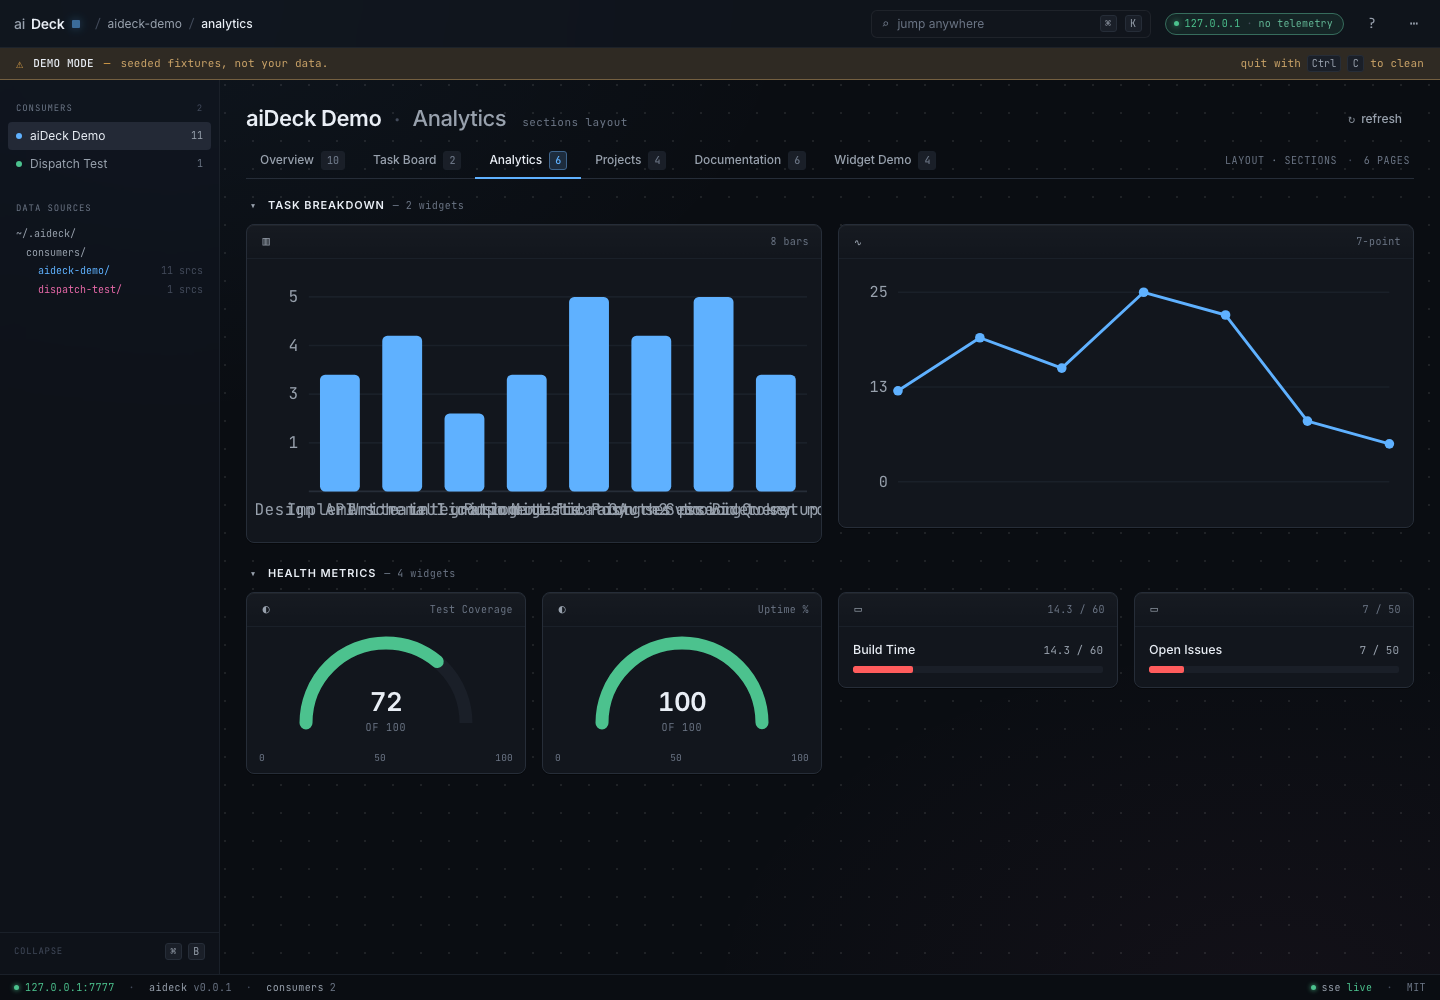
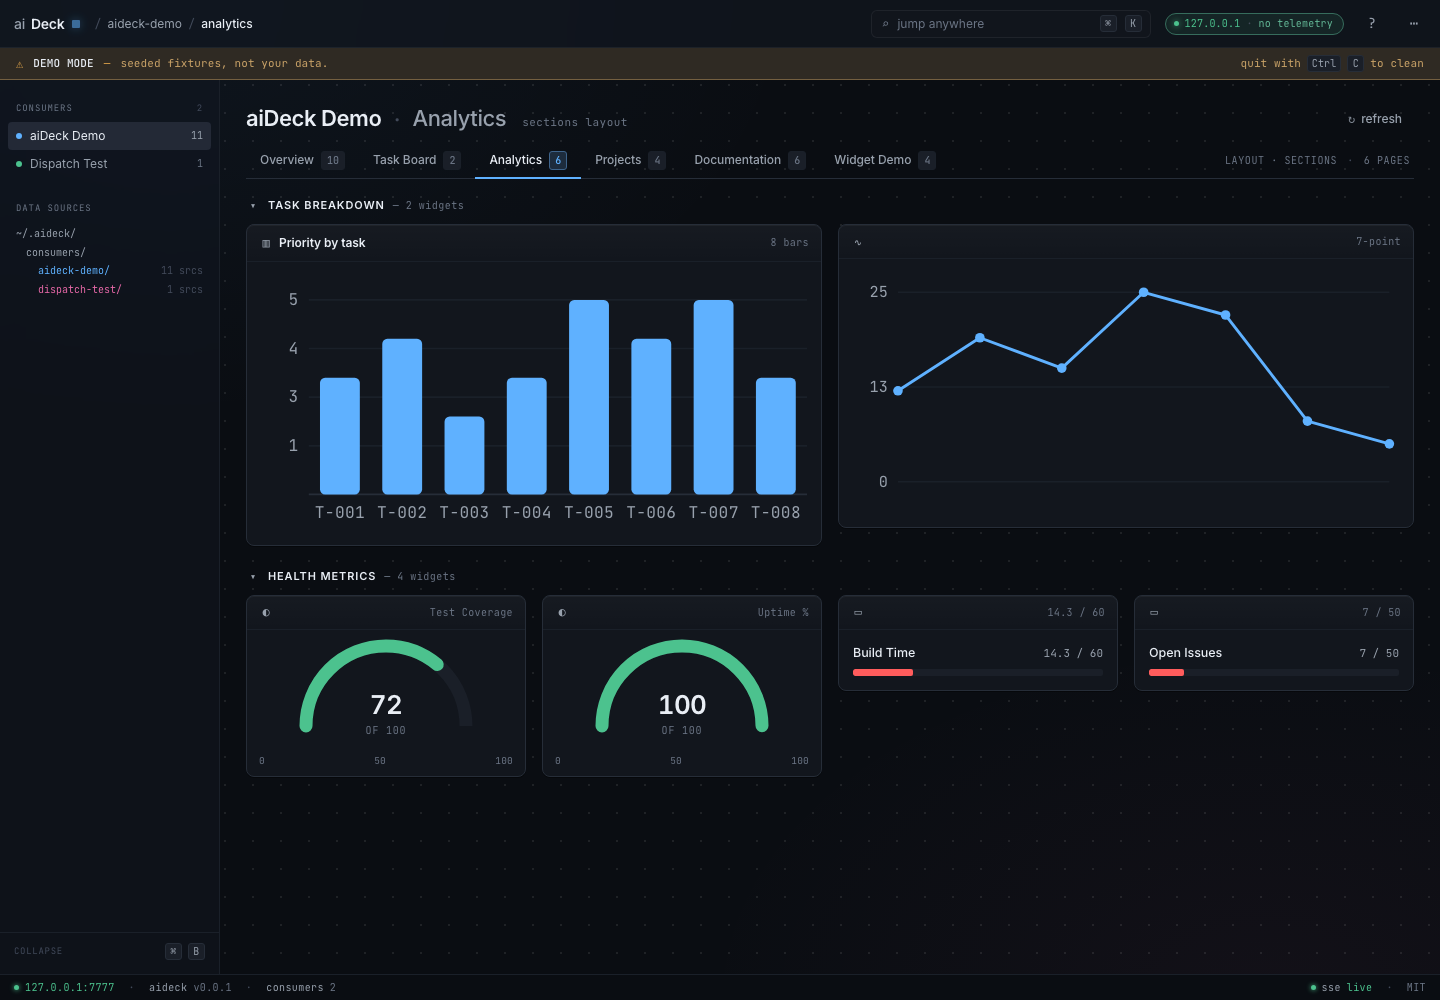
polish(client): readable bar-chart labels + populated tabs widget
bar-chart: clip x-axis labels to the bar slot (full label stays in the hover tooltip) so long labels no longer overlap; demo plots task id (short) instead of title. tabs: each tab now renders the bound source filtered by an optional per-tab filter (with auto counts) instead of an empty '// no widgets' panel; demo splits tasks by status (active/done/all). container: titled eyebrow in the demo.

diff --git a/src/client/components/widgets/TabsWidget.vue b/src/client/components/widgets/TabsWidget.vue
@@ -13,16 +13,15 @@
           @click="activeIndex = i"
         >
           <span>{{ tab.label }}</span>
-          <span v-if="tab.count != null" class="tw-ct">{{ tab.count }}</span>
+          <span class="tw-ct">{{ tabCounts[i] }}</span>
         </button>
       </div>
       <div class="tabw-body" role="tabpanel">
-        <div v-if="!activeTab || (activeTab.widgets?.length ?? 0) === 0" class="lst-empty">
-          // no widgets in this panel
-        </div>
+        <div v-if="panelRows.length === 0" class="lst-empty">// nothing here</div>
         <div v-else class="lst">
-          <div v-for="(w, i) in activeTab.widgets" :key="i" class="lst-row">
-            <span class="l-title">{{ widgetLabel(w) }}</span>
+          <div v-for="(row, i) in panelRows" :key="i" class="lst-row">
+            <span class="l-title">{{ row.title }}</span>
+            <span v-if="row.tail" class="l-tail">{{ row.tail }}</span>
           </div>
         </div>
       </div>
@@ -40,17 +39,48 @@ const props = defineProps<{
   consumerId?: string
 }>()
 
-interface TabDef { label: string; count?: number; widgets?: unknown[] }
+interface TabDef {
+  label: string
+  count?: number
+  filter?: Record<string, unknown>
+  widgets?: unknown[]
+}
+interface PanelRow {
+  title: string
+  tail?: string
+}
 
 const title = computed(() => props.config.title as string | undefined)
 const icon = computed(() => props.config.icon as string | undefined)
 const live = computed(() => props.config.live === true)
+const titleField = computed(() => String(props.config.titleField ?? 'title'))
+const tailField = computed(() => String(props.config.tailField ?? 'status'))
 
 const tabs = computed<TabDef[]>(() => {
   const t = props.config.tabs
-  if (Array.isArray(t)) return t as TabDef[]
-  return []
+  return Array.isArray(t) ? (t as TabDef[]) : []
 })
+
+// Each tab renders either its declared widgets (by label) or the bound data
+// source filtered by the tab's `filter` — so a tab is never an empty panel.
+function rowsForTab(tab: TabDef): PanelRow[] {
+  if (tab.widgets?.length) {
+    return tab.widgets.map((w) => ({ title: widgetLabel(w) }))
+  }
+  let recs = props.source
+  if (tab.filter) {
+    recs = recs.filter((r) => Object.entries(tab.filter as Record<string, unknown>).every(([k, v]) => r[k] === v))
+  }
+  return recs.map((r) => ({
+    title: String(r[titleField.value] ?? r['title'] ?? r['name'] ?? r['id'] ?? ''),
+    tail: r[tailField.value] != null ? String(r[tailField.value]) : undefined,
+  }))
+}
+
+const activeIndex = ref(0)
+const activeTab = computed(() => tabs.value[activeIndex.value])
+const panelRows = computed<PanelRow[]>(() => (activeTab.value ? rowsForTab(activeTab.value) : []))
+const tabCounts = computed(() => tabs.value.map((t) => t.count ?? rowsForTab(t).length))
 
 const meta = computed(() => {
   const m = props.config.meta
@@ -59,24 +89,21 @@ const meta = computed(() => {
   return n ? `${n} panel${n === 1 ? '' : 's'}` : undefined
 })
 
-const activeIndex = ref(0)
-const activeTab = computed(() => tabs.value[activeIndex.value])
 const barEl = ref<HTMLElement | null>(null)
 
 function widgetLabel(w: unknown): string {
   if (w && typeof w === 'object') {
     const o = w as Record<string, unknown>
-    return String(o.title ?? o.type ?? 'widget')
+    return String(o.title ?? o.widget ?? o.type ?? 'widget')
   }
   return String(w)
 }
 
-function focusTab(n: number) {
-  const btns = barEl.value?.querySelectorAll<HTMLButtonElement>('.tabw-tab')
-  btns?.[n]?.focus()
+function focusTab(n: number): void {
+  barEl.value?.querySelectorAll<HTMLButtonElement>('.tabw-tab')[n]?.focus()
 }
 
-function onKey(e: KeyboardEvent) {
+function onKey(e: KeyboardEvent): void {
   const len = tabs.value.length
   if (len === 0) return
   if (e.key === 'ArrowRight') {

diff --git a/src/client/components/widgets/BarChartWidget.vue b/src/client/components/widgets/BarChartWidget.vue
@@ -26,7 +26,7 @@
             @mouseleave="tip = null"
           />
           <text class="chart-svg-text" :x="b.x + b.w / 2" :y="padT + innerH + 14" text-anchor="middle">
-            {{ b.label }}
+            {{ b.short }}
           </text>
         </g>
       </svg>
@@ -97,6 +97,7 @@ interface Bar {
   w: number
   h: number
   label: string
+  short: string
   value: number
 }
 
@@ -104,12 +105,17 @@ const bars = computed<Bar[]>(() => {
   const data = props.source
   if (data.length === 0) return []
   const bw = innerW / data.length
+  // Axis labels can't ellipsize in SVG — clip to what fits the slot; the
+  // full label stays in the hover tooltip.
+  const maxChars = Math.max(4, Math.floor(bw / 6))
   return data.map((r, i) => {
     const value = Number(r[valueField.value] ?? 0)
     const h = Math.max(2, (value / max.value) * innerH)
     const x = padL + i * bw + bw * 0.18
     const w = bw * 0.64
-    return { x, y: padT + innerH - h, w, h, label: String(r[labelField.value] ?? i), value }
+    const label = String(r[labelField.value] ?? i)
+    const short = label.length > maxChars ? `${label.slice(0, maxChars - 1)}…` : label
+    return { x, y: padT + innerH - h, w, h, label, short, value }
   })
 })
 